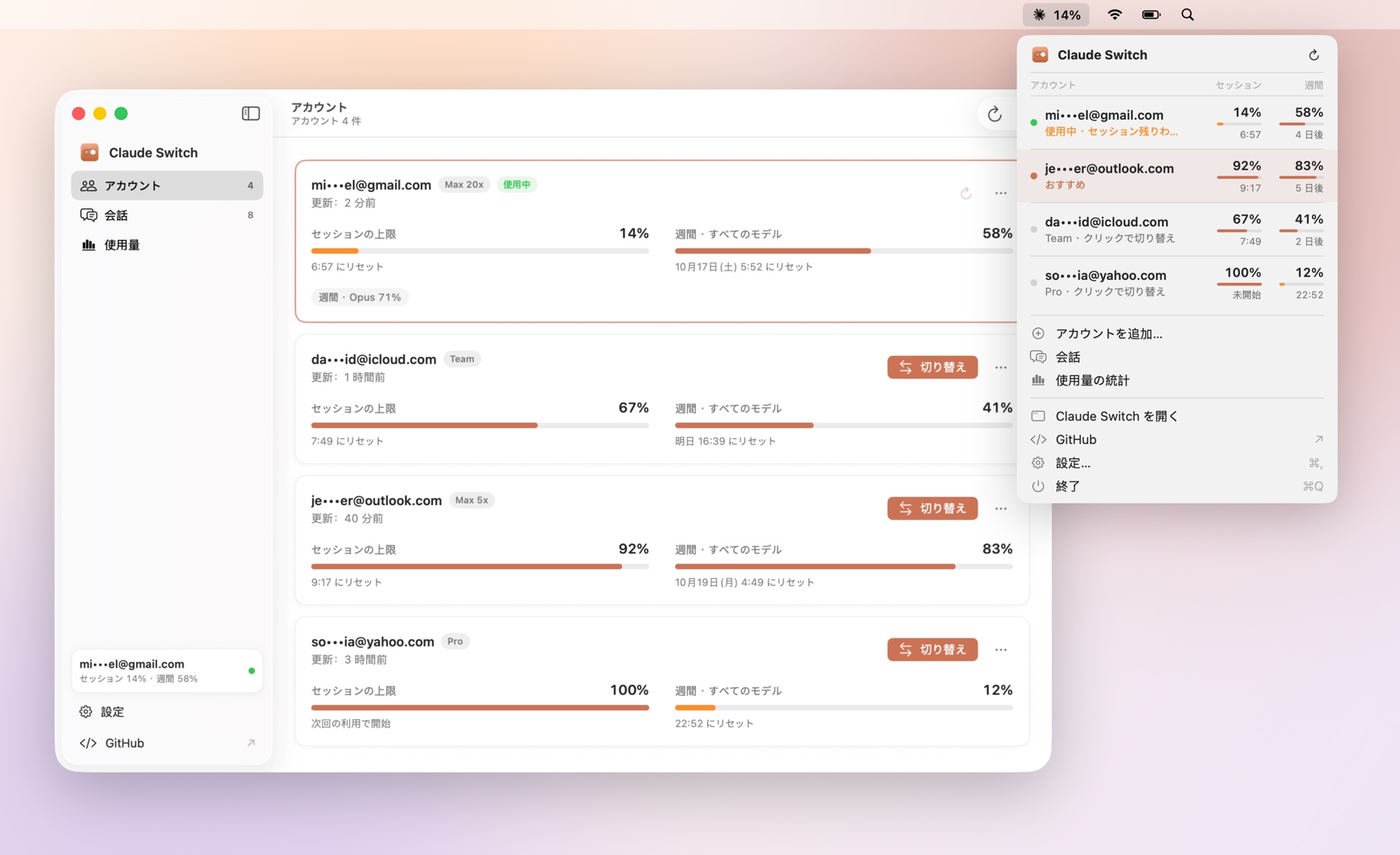
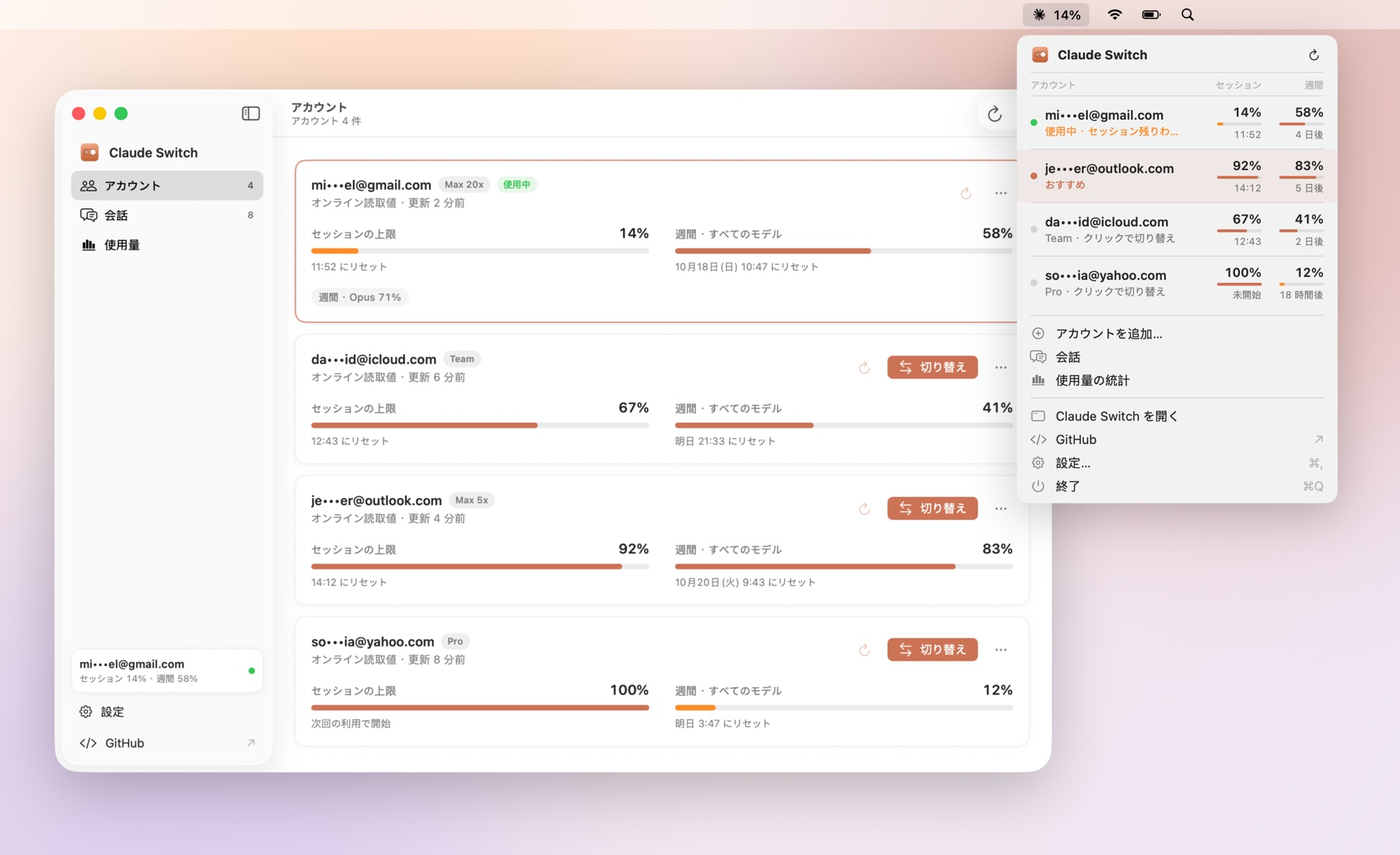
docs: simplify quota overview and refresh screenshots

diff --git a/docs/usage-data.md b/docs/usage-data.md
@@ -11,15 +11,9 @@ They are measured in different units and cannot be converted into each other.
 
 ### Where readings come from
 
-By default nothing is sent over the network. Readings come from files Claude Desktop already keeps:
+Quota percentages and reset times come only from successful online usage responses. Switch does not read Desktop's quota-history file, transcript rate-limit hints or cached `messageLimits`, and never estimates reset times from local history.
 
-- **Percentages** come from `plan-usage-history.json` in Claude Desktop's folder. Each sample belongs to an account and organization; Claude Switch keeps the newest sample for every account it can match unambiguously. If several local accounts share one organization and cannot be told apart, the reading stays unknown instead of being guessed.
-- **Reset times** are not stored in that file. Claude Switch uses, in order:
-  1. rate-limit replies (`quotaLimits` with status `rejected` or `allowed_warning`) recorded in Claude Code transcripts under `~/.claude/projects`, but only for sessions that belong to a single Desktop account. Files changed in the last 8 days are read incrementally, at most 16 MB per pass;
-  2. the `messageLimits` of the signed-in account in Claude's local `claude.ai` cache. The cache is parsed field by field, and parsing stops at anything unrecognized.
-- When neither source has a reset time, it is **estimated** from the sample history. Usage within one window never goes down, so the window started no later than the earliest sample of the current run, and it resets no later than that sample plus the window length. Such times are shown as "resets by …" and marked as estimates. With sparse samples the estimate can be early.
-
-A known reset time always wins over an estimate. A reset time is discarded once it has passed or once a newer sample shows that usage dropped, which means the window reset early.
+Switch retains its own last successful online response for offline display. Reading that cache, checking files or failing a request never advances the measurement time. On library load, legacy local and estimated windows are removed; individually attributed online windows retain their original timestamps. A locally sourced reset is removed even when its percentage came from the server.
 
 ### What is shown
 
@@ -27,35 +21,73 @@ Every account always shows a session and a weekly row, even when one is unknown.
 
 - Unknown values are shown as `—` with an empty track. `0%` is only shown when a window is truly used up.
 - Remaining quota is `100 − utilization`. Quota is never decreased over time by guesswork.
-- When a reset time passes, the window is treated as reset: 100% left. Weekly windows roll over to their next reset. A session only starts with the next message, so it shows "Starts on next use" until it is read again.
+- When a reset time passes, the row shows **Awaiting confirmation** and an unknown percentage. The original measurement and reset timestamp remain intact; no 100% value or future weekly reset is invented. A fresh server reading of zero usage with no session reset can show "Starts on next use".
+- Every window keeps its own source and observation time. Display freshness follows the refresh interval plus a one-minute allowance, with a ten-minute minimum. Switch suggestions still require measurements no older than ten minutes, without estimates or pending resets. A failed query preserves the previous measurement and its timestamp.
 
 ### Suggested account
 
 When the signed-in account's session limit drops to 20% or less (or its weekly limit to 10% or less) and will not reset within the next half hour (an hour for the weekly limit), the menu bar highlights the saved account with the most session quota left, provided it has clearly more left and at least 20% of its weekly limit. Without a shortage, it may instead point to an account whose unused quota is about to reset. The suggestion is only a hint; nothing switches on its own.
-- Accounts that are not signed in keep their last reading together with the time it was taken. Usage on other devices is not visible to Claude Switch.
+- Online readings include the account’s server totals, including other devices. Saved accounts retain their last successful reading when their credentials expire.
 
 ### Refreshing online
 
-The refresh button on the **signed-in** account's card asks Anthropic for its current quota. It also runs once after you switch accounts, after a new account is saved, and when Claude Desktop changes accounts by itself. The menu bar refresh, `⌘R` and the background check every 60 seconds only re-read local files.
+The refresh button on **each saved account’s card** reads that account's quota. The current account always comes from Desktop's published credentials, with no fallback to its saved snapshot. Existing manual reads of other saved logins remain available. After a successful or observed account switch the incoming account is prioritized, then the outgoing saved login is read once. A newly saved login is also read once; eligible saved accounts also use the periodic schedule below.
+
+The current account additionally gets a bounded read on:
+
+- startup, wake, session unlock, or network restoration, when its reading is due under the refresh policy, missing, or awaiting recovery;
+- publication of changed credentials for the same account; a changed encrypted cache only causes a request if the selected access token actually changed;
+- an observed reset boundary, once per boundary.
+
+A debounced file observer notices config publication and atomic file replacement. The existing 60-second local scan is a fallback. The menu bar refresh and `⌘R` read the current account online after checking local identity. The account-card refresh reads that card’s account online. Automatic reads never show a Keychain prompt.
+
+### Automatic schedule and settings
+
+Settings can disable automatic quota reads, disable activity adjustment, and set the current-account default interval (5–60 minutes), other-account interval (15–120 minutes), minimum interval (1–5 minutes) and quiet interval (at least the current-account default, up to 120 minutes). Defaults are 15, 30, 1 and 30 minutes respectively. Manual refresh remains available when automatic refresh is disabled.
+
+While Claude is running, a 60-second heartbeat checks metadata of task records belonging to the current account and organization. Code uses uniquely attributed transcript files and their subagent records. Cowork uses account-scoped `audit.jsonl` and nested transcript files, including `agent/` sessions. Only modification times and sizes are read for this purpose; no message bodies, focus/keyboard activity, CPU load or quota deltas are used. Titles, index-file changes and output artifacts do not count.
+
+Each minute contributes at most one changed observation, regardless of the number of sessions. With default settings:
+
+| Changed observations in the last five minutes | Current-account interval |
+| --- | --- |
+| 4–5 | 1 minute |
+| 2–3 | 2 minutes |
+| 1 | 5 minutes |
+| 0 | 15 minutes |
+| 30 continuous minutes of complete observations without changes | 30 minutes |
+
+The intermediate intervals are two and five times the configured minimum, capped at the default interval. Other accounts use their own configured interval, 30 minutes by default, independently of current-account activity. Missing, ambiguous, stale or incomplete activity observations fall back to the default; they never establish inactivity. Account changes clear the selected account’s observation window. Recently modified records seed the initial observation; discovering an old record does not count as new activity. This measures record-change frequency, not exact execution state or token consumption. A long task that produces no record changes can therefore slow down the polling rate.
+
+All automatic reads share one serial queue with at least 15 seconds between attempts. The current account is prioritized without starving overdue saved accounts. The client separately enforces at least 60 seconds per account/organization. Manual success satisfies pending reads for that account. Each next periodic read is anchored to the last successful measurement or attempt, not postponed by every heartbeat. The scheduler does not replay missed polling rounds after sleep.
+
+Claude exit, system sleep or loss of connectivity pauses automatic queries and cancels an automatic read in flight. Claude is never launched just to fetch quota. Expired or rejected credentials suspend that account’s periodic work until updated credentials or a manual recovery; no refresh token is used. Token changes cannot shorten a server cooldown. Background reads never request Keychain authorization.
 
 An online refresh:
 
-- sends the same read-only `GET https://api.anthropic.com/api/oauth/usage` that Claude Code's `/usage` command sends. When the token changes, it first calls `GET /api/oauth/profile` and verifies that the account and organization match the one Claude Desktop is signed in to;
-- requires a Claude Code installation (the one bundled with Claude Desktop is enough), whose version is sent in the `User-Agent`. Without it, no request is made;
-- uses the access token Claude Desktop already holds. It decrypts Claude's token cache with the key in the **Claude Safe Storage** Keychain item. Refresh tokens are never used and no token is ever renewed, so Claude's own login is never disturbed;
-- never reads or sends anything for accounts that are not signed in, never uses web cookies, and never sends prompts.
+- uses only `GET https://api.anthropic.com/api/oauth/profile` and `GET /api/oauth/usage?skip_spend=1`; manual and automatic quota reads skip spending statistics, which the quota display does not use;
+- verifies the account and organization before usage. This validation is cached only in memory for the same account, organization and actual access token, for at most ten minutes and 32 entries;
+- reads the encrypted cache with **Claude Safe Storage**. It matches the supported client ID, exact audience, required and allowed scopes, account binding and a single organization. Conflicting equally suitable credentials stop the read; the latest expiry does not decide ownership;
+- checks the server-provided `expiresAt` rather than assuming an eight-hour token lifetime. Expired and soon-expiring tokens wait for Claude; malformed metadata, missing scope, Keychain errors and authorization failures have separate messages;
+- never uses refresh grants, web cookies or inference requests. Claude Desktop remains responsible for renewing its login. No saved login is restored merely to read quota.
 
-**Keychain prompt.** "Claude Safe Storage" belongs to Claude, so macOS asks once whether Claude Switch may read it. The prompt only appears when you press refresh yourself; automatic refreshes stay silent and skip the request instead. Choose **Always Allow** to avoid being asked again. Builds that are not signed with a stable identity are a new app to macOS after every update, so the question may come back.
+**Request compatibility.** The builder follows the observed OAuth endpoint and bearer/beta-header contract, using the installed Claude Code version for the existing Code compatibility user agent. A missing Code installation stops the request. This is a Swift `URLSession` client, not Electron `net.fetch`: matching HTTP fields does not reproduce Desktop's transport, cookie context or TLS fingerprint. It is not an official public API or a guarantee against account enforcement. Desktop 2.37337.1 also has a separate cookie-based organization-usage path; Switch does not adopt that path or copy cookies into requests.
 
-**Back-off**, per login, persisted across restarts:
+**Credential recovery.** A `401` blocks that exact access token, not the account or the encrypted cache. A changed cache with the same denied token cannot bypass this block. The first two minutes after a switch allow short local readiness checks; the observer and fallback scans continue after that deadline. If Claude publishes a replacement token several minutes later, Switch resumes with the new token, subject to the account's remaining cooldown. If Claude cannot renew it, the user must complete login in Claude. A missing local cookie does not prove that a saved login was revoked. Legacy invalid-login flags inferred only from cookie absence are cleared on library load; this permits revalidation without declaring the saved login valid.
 
-- at least 60 seconds between two requests;
-- `429` or `403`: wait for `Retry-After`, or 5 minutes, at most 1 hour;
-- `401`: no further requests until the credentials change.
+A saved access token that has expired retains its last reading and asks the user to switch to the account so Claude can update the login. Non-current accounts are not actively renewed. Cancellation of a switch does not enqueue a switch refresh; an in-flight quota read is canceled when a file operation starts, and changed credentials discard the response.
 
-Requests use an ephemeral session without cookies or cache, refuse redirects, time out quickly and accept at most 1 MB. If anything is off (an unexpected format, an identity mismatch, missing permissions), the previous reading is kept and the problem is shown on the account's card until it is dismissed, the next read succeeds or another account is signed in. Pressing refresh during the back-off shows a countdown that disappears when the wait is over. Error messages never include the response body or the `Authorization` header.
+**Keychain access.** Only a manual refresh may request macOS authorization. Automatic reads stay silent and show recovery guidance when access is unavailable. Ad-hoc builds can be considered a new app after an update, so permission may be requested again.
 
-These endpoints are not a documented public API and may change.
+**Retry state** is persisted in Switch's own private directory, using an exclusive lock to serialize reservations across app instances:
+
+- one lookup cycle per account and organization per 60 seconds; an uncached cycle may contain one profile GET and one usage GET;
+- `429`: honor the complete `Retry-After` duration or HTTP date, with a five-minute fallback. A new token or app restart cannot shorten it;
+- `401`: wait for a different actual access token; `403` is an authorization/scope failure, not a rate-limit response, and also stops automatic reuse of that token;
+- temporary network and server failures: exponential delay from one minute to one hour, respecting longer server delays. Automatic retry bursts are bounded by readiness checks; later recovery is event-driven;
+- cancellation is not an account error. No response body or authorization header is put in an error message.
+
+Requests use an ephemeral session without cookies or cache, refuse redirects, have short timeouts and accept at most 1 MB of successful response data (16 KB for error classification). A failed read preserves the last measurement. A visible cooldown is not a successful reading. Unknown response fields remain unknown; `limits[]` is accepted only for the known `weekly_scoped` kind, with bounded model labels and stable model IDs when supplied.
 
 ## Usage statistics
 

diff --git a/docs/claude-internals.md b/docs/claude-internals.md
@@ -35,7 +35,7 @@ Any other `oauth:` key in `config.json` means the format changed; saving and swi
 
 ### Signed-in check
 
-`Cookies` is an SQLite database. A non-expired `sessionKey` cookie for host `.claude.ai` in table `cookies(host_key, name, expires_utc)` means Claude is signed in. [`LoginProbe`]
+`Cookies` is an SQLite database. Read a stable private copy together with committed WAL frames; never open the live database as immutable. A non-expired `sessionKey` cookie for host `.claude.ai` in table `cookies(host_key, name, expires_utc)` means Claude is signed in. [`LoginProbe`]
 
 ### Token cache encryption
 
@@ -45,20 +45,20 @@ Any other `oauth:` key in `config.json` means the format changed; saving and swi
 - key: PBKDF2-HMAC-SHA1, salt `saltysalt`, 1003 iterations, 16 bytes
 - cipher: AES-128-CBC, IV of 16 spaces (`0x20`), PKCS#7 padding
 
-The plaintext is a JSON object. Keys look like `<client>:<org>:https://api.anthropic.com:<scopes>`, or `acct:<account>|<client>:<org>:https://api.anthropic.com:<scopes>` when bound to an account. Values hold `token` and `expiresAt` (and a refresh token, which Claude Switch never reads or uses). Only entries with both `user:profile` and `user:inference` scopes can read usage. [`DesktopTokenReader`]
+The plaintext is a JSON object. Keys look like `<client>:<org>:https://api.anthropic.com:<scopes>`, or `acct:<account>|<client>:<org>:https://api.anthropic.com:<scopes>` when bound to an account. Values hold `token` and `expiresAt` (and a refresh token, which Claude Switch never selects or uses). Only entries with both `user:profile` and `user:inference` scopes can read usage. [`DesktopTokenReader`]
 
 ## Accounts, emails and plans
 
 - Desktop stores no account name or avatar locally; the UUID is the identity.
 - `~/.claude.json` → `oauthAccount.accountUuid`, `emailAddress`, `organizationUuid` (the Claude Code login, which may differ from Desktop's: another account, or another organization of the same account, so its organization only fills a gap). Only `oauthAccount` is decoded; the file also holds project history. [`LocalReader`]
-- `IndexedDB/https_claude.ai_0.indexeddb.blob/…`: claude.ai's persisted query cache. Values are V8-serialized and usually Snappy-compressed (`FF 11 02` header). From it Claude Switch reads `account { uuid, email_address }`, each organization's `rate_limit_tier` and `capabilities`, and `current_account.messageLimits[<org>]`. Values are paired only with the `uuid` of the object that holds them, and parsing stops at unknown tags. [`DesktopProfile`]
+- `IndexedDB/https_claude.ai_0.indexeddb.blob/…`: claude.ai's persisted query cache. Values are V8-serialized and usually Snappy-compressed (`FF 11 02` header). From it Claude Switch reads `account { uuid, email_address }`, each organization's `rate_limit_tier` and `capabilities`. Values are paired only with the `uuid` of the object that holds them, and parsing stops at unknown tags. [`DesktopProfile`]
 - Plan names come from `rate_limit_tier` (words `max` with an optional `5x`/`20x`, `pro`, `team`, `enterprise`), falling back to capabilities `claude_max` / `claude_pro`.
 
 ## Quota
 
-- `plan-usage-history.json` → `samples[]` with `t` (time), `org`, `u.fh` (session limit used, %) and `u.sd` (weekly limit used, %). No reset times. Samples from earlier logins can remain, so each sample must be matched to its organization. [`LocalReader.localUsage`]
-- `messageLimits[<org>]` (above) includes reset times only while a limit is near or hit: `resetsAt` for `representativeClaim`, plus `windows["5h" | "7d"].resets_at`.
-- Window identifiers and lengths: `five_hour` (5 hours, starts with the first message), `seven_day` (7 days), plus model-specific weekly windows such as `seven_day_opus` and `seven_day_sonnet`. [`ResetInference.lengths`]
+Quota percentages and reset times are read only from the online endpoints below. Desktop's `plan-usage-history.json`, cached `messageLimits` and transcript quota hints are not used for quota. Existing local/estimated measurements are filtered from Switch's library on load. Window identifiers include `five_hour` and `seven_day`, plus model-specific weekly windows.
+
+Activity scheduling reads only modification times and sizes of Code transcripts/subagent records and Cowork audit/transcript records. Cowork stores sessions under the account/organization directory, optionally under `agent/`; some Desktop versions shorten UUID directory names to eight characters. Shortened account/organization roots are used only when unambiguous among known identities. Missing or unsupported layouts remain unknown. This is scheduling evidence only; it never supplies quota or reset times.
 
 ## Claude Code sessions in Desktop
 
@@ -73,20 +73,20 @@ The plaintext is a JSON object. Keys look like `<client>:<org>:https://api.anthr
 
 - rows have `type` (`user`, `assistant`, …), `timestamp`, `sessionId`, `isSidechain`, `requestId`, `message.id`, `message.model`, and `message.usage` with `input_tokens`, `output_tokens`, `cache_read_input_tokens`, `cache_creation_input_tokens`;
 - `<project>/<…>/subagents/agent-*.jsonl` hold subagent rows; files containing `.superseded-` are obsolete; the model `<synthetic>` is not real usage;
-- a reply that hit or neared a limit carries `quotaLimits { status: "rejected" | "allowed_warning", rateLimitType, resetsAt }`. Transcripts have no account UUID. [`TokenScanner`, `LimitLogScanner`]
+- a reply that hit or neared a limit carries `quotaLimits { status: "rejected" | "allowed_warning", rateLimitType, resetsAt }`. Transcripts have no account UUID. [`TokenScanner`; quota hints are ignored]
 
 Installed Claude Code versions live in `claude-code/<version>/` (bundled with Desktop) or `~/.local/share/claude/versions/<version>/`.
 
 ## Online endpoints
 
-Used only for the signed-in account, only on the triggers in [usage-data.md](usage-data.md), with the token Desktop already holds:
+Used on the event triggers and configurable, staggered periodic schedule in [usage-data.md](usage-data.md). Automatic queries pause when Claude is closed. The access token comes from Desktop or the selected encrypted vault snapshot; it is never renewed:
 
 | Request | Fields read |
 | --- | --- |
 | `GET https://api.anthropic.com/api/oauth/profile` | `account.uuid`, `account.email_address`, `account.has_claude_max`, `account.has_claude_pro`, `organization.uuid`, `organization.rate_limit_tier` |
-| `GET https://api.anthropic.com/api/oauth/usage` | `five_hour`, `seven_day`, `seven_day_sonnet`, `seven_day_opus` → `utilization`, `resets_at`; `limits[]` → `scope.model.display_name`, `percent` or `utilization`, `resets_at` |
+| `GET https://api.anthropic.com/api/oauth/usage?skip_spend=1` | `five_hour`, `seven_day`, `seven_day_sonnet`, `seven_day_opus`, `seven_day_oauth_apps`, `seven_day_cowork` → `utilization`, `resets_at`; `limits[]` with `kind == weekly_scoped` → optional `scope.model.id`, `scope.model.display_name`, `percent` or `utilization`, `resets_at` |
 
-Headers match Claude Code's `/usage`: `Authorization: Bearer <token>`, `anthropic-beta: oauth-2025-04-20`, `User-Agent: claude-code/<installed version>`. Back-off rules are in [usage-data.md](usage-data.md). [`ActiveUsageClient`]
+The OAuth compatibility builder uses: `Authorization: Bearer <token>`, `anthropic-beta: oauth-2025-04-20`, `User-Agent: claude-code/<installed version>`. These fields do not establish transport equivalence with Electron. Desktop 2.37337.1 has both an OAuth usage path and a separate cookie-based organization-usage path. Switch uses only the OAuth compatibility path. Back-off and credential selection rules are in [usage-data.md](usage-data.md). [`ActiveUsageClient`]
 
 ## Process behavior
 

diff --git a/README.md b/README.md
@@ -29,17 +29,18 @@ Save each login once, switch between them in a second, and see every account's s
 
 Claude Desktop signs in to one account at a time. If you use a personal and a work account, or several plans for different projects, changing accounts means signing out, signing in again and losing track of how much quota each one has left.
 
-Claude Switch keeps every login you use on your Mac, encrypted, and swaps them for you. It is a native menu bar app: no Electron, no background service, no third-party dependencies.
+Claude Switch keeps every login you use on your Mac, encrypted, and swaps them for you. It is a native macOS menu bar app with no third-party dependencies.
 
 ## Features
 
 - **One-click switching.** Pick an account in the menu bar. Claude quits normally, the saved login is put back in place, and Claude reopens already signed in.
-- **Limits at a glance.** Every account shows how much of its **session limit** and **weekly limit** is left and when each one resets, plus model-specific weekly limits when your plan has them.
+- **Limits at a glance.** Read session, weekly and model-specific limits and reset times directly from Claude online.
+- **Automatic refresh.** The current account follows conversation activity; other accounts refresh every 30 minutes by default. Adjust intervals in Settings. Refresh pauses when Claude closes.
 - **Smart suggestion.** When the current account is running low, the menu bar points to a saved account that still has room.
 - **Add accounts without signing out.** "Add account" moves the current login aside so Claude opens at its sign-in screen. The previous account stays signed in on the server and keeps working.
 - **Bring your Claude Code sessions along.** Move or copy local Claude Code sessions to another account, or let chosen sessions follow you whenever you switch.
 - **Usage statistics.** Tokens, models, an activity heatmap, streaks and daily charts, counted the same way as Claude Desktop's own statistics.
-- **Safe by design.** Encrypted snapshots, a strict allow-list of files, a journal that can roll back any interrupted switch, and no network traffic unless you ask for it. See [How it works](docs/how-it-works.md).
+- **Safe by design.** Encrypted snapshots, a strict allow-list of files, a journal that can roll back any interrupted switch, with network access limited to documented quota reads and configurable automatic refreshes. See [How it works](docs/how-it-works.md).
 - **Feels at home on macOS.** SwiftUI, light and dark mode, keyboard shortcuts, and 10 languages.
 
 ## Screenshots
@@ -96,15 +97,15 @@ Claude Switch **doesn't have remote or automatic updates yet**. To hear about ne
 > [!IMPORTANT]
 > To change accounts, use Claude Switch rather than Claude's **Log out** or Claude Code's `/login`.
 > Signing out revokes that login on Anthropic's side, and the copy Claude Switch saved stops working.
-> If that happens, the account is marked **Expired**; sign in to it once more and it is saved again.
+> If Claude cannot restore the login, sign in once more and it is saved again.
 
-Handy shortcuts in the main window: `⌘1` `⌘2` `⌘3` switch pages, `⌘K` searches accounts and sessions, `⌘R` re-reads local data.
+Handy shortcuts in the main window: `⌘1` `⌘2` `⌘3` switch pages, `⌘K` searches accounts and sessions, `⌘R` refreshes the current account’s quota online.
 
 ## Privacy and security
 
 - **Everything stays on your Mac.** Saved logins are encrypted with AES-256-GCM. The key lives in your login Keychain and is never synced to iCloud, so a copy of the saved logins alone can't be read.
 - **No telemetry, no analytics, no servers of our own.**
-- **Network access only when you ask.** Refreshing the signed-in account's limits sends the same read-only request Claude Code's `/usage` command sends, directly to Anthropic. Other accounts are never contacted. Reading the local records needs no network at all.
+- **Limited network access.** Only account and quota queries go to Anthropic. Automatic refresh can be disabled; local conversations are never uploaded.
 - **A narrow footprint.** Only Claude Desktop's login files are swapped. Claude Code's own login, your projects, MCP servers, skills and settings are left alone.
 - **Recoverable.** Every switch is journaled; if something interrupts it, Claude Switch can restore the previous state.
 
@@ -115,7 +116,7 @@ Details: [How it works](docs/how-it-works.md) · [Quota and usage data](docs/usa
 <details>
 <summary><b>Why does macOS ask to let Claude Switch use "Claude Safe Storage"?</b></summary>
 
-Claude encrypts its login tokens with a key stored in that Keychain item. Claude Switch only needs it to read the signed-in account's current limits online, and only asks when you press refresh yourself. Choose **Always Allow** to avoid repeated prompts. Everything else works without it.
+Claude encrypts its login tokens with a key stored in that Keychain item. Claude Switch only needs it to read the selected account's current limits online, and only asks when you press refresh yourself. Choose **Always Allow** to avoid repeated prompts. Everything else works without it.
 </details>
 
 <details>
@@ -127,7 +128,7 @@ No. Claude Switch switches Claude Desktop. The Claude Code command-line tool kee
 <details>
 <summary><b>Why do some accounts show "—" or an older reading?</b></summary>
 
-Limits come from records Claude Desktop keeps on your Mac. An account you have not used recently has no fresh reading, and usage from other devices is not visible locally. Each reading shows when it was taken.
+A failed refresh keeps the last successful reading and its timestamp; “—” means no reading is available yet. If the saved access token has expired, switch to that account and let Claude update its login.
 </details>
 
 <details>

diff --git a/docs/architecture.md b/docs/architecture.md
@@ -43,10 +43,10 @@ Saving the signed-in login is not gated: it only reads Claude's files and writes
 ## Data flow
 
 1. `AppState.start()` loads `library.json`, starts the usage scan in the background and runs `refresh()`.
-2. `refresh()` scans Claude's local files through `LocalReader`, merges new quota samples, rolls quota windows past their reset times and saves the signed-in login if it changed. It runs every 60 seconds. While Claude shows its sign-in screen, or right after a switch, only the signed-in account, its credentials and the session cookie are checked every three seconds, and a change triggers `refresh()`. Usage statistics are rescanned every minute while the Usage page is on screen, otherwise every ten minutes.
+2. `refresh()` scans Claude's local files through `LocalReader`, marks elapsed reset times as awaiting confirmation and saves the signed-in login if it changed. A 60-second heartbeat checks whether Claude is running; local rescans and task-record metadata sampling pause when it is closed. While Claude shows its sign-in screen, or right after a switch, only the signed-in account, its credentials and the session cookie are checked every three seconds, and a change triggers `refresh()`. Usage statistics are rescanned every minute while the Usage page is on screen, otherwise every ten minutes.
    `AppState` is `@Observable`, so a view redraws only for what it reads: a statistics scan does not redraw the menu bar.
 3. User actions call `SwitchEngine.prepare(...)`, which returns an `OperationPlan`. The confirmation sheet shows the plan; `execute(...)` re-validates it and runs it as a `FileTransaction`.
-4. Online quota reads go through `ActiveUsageClient` only on the triggers described in [usage-data.md](usage-data.md).
+4. Online quota reads go through `ActiveUsageClient` only on the triggers described in [usage-data.md](usage-data.md). Manual reads target the selected account. `QuotaRefreshSchedule` determines due accounts from online timestamps and recent task-record changes. `SessionActivityReader` reads metadata only, bounded to current-account records. `QuotaRefreshQueue` serializes and staggers automatic reads for both sides of a successful or observed switch, coalesces duplicate discovery notifications and defers individual accounts during cooldowns without blocking the other account. The queue pauses during file operations, local scans, manual reads, sleep, offline periods and while Claude is closed. Settings control automatic polling and its intervals. The active login comes from Desktop, other saved logins from `CredentialVault`; automatic reads never request a Keychain prompt. Both use the same token parser, verify the profile identity and revalidate credentials before accepting a reading. Account/organization cooldowns and actual-token denials use separate persisted keys. A file observer detects same-account credential publication with a 60-second scan fallback; stale/recovery reads can also be triggered by startup, wake or network restoration. Profile validation has a ten-minute in-memory cache scoped to the account, organization and token.
 
 ## Localization
 
@@ -79,3 +79,19 @@ swift run switch-inspect --tokens   # also scan the last 30 days of token usage
 ## Platform
 
 Only macOS is supported. The core rules and data contracts in `SwitchCore` are platform-neutral, but storage access, credential protection and process control are macOS-specific, and saved logins are bound to the Mac they were created on.
+
+## P1–P3 quota recovery implementation
+
+| Priority | Changes | Fixture coverage |
+| --- | --- | --- |
+| P1 | Same-account token renewal, late publication recovery, current account priority | `QuotaRefreshQueueTests`, `UsageClientTests` |
+| P1 | Stable cookie database plus WAL copy; local absence does not imply revocation | `LoginProbeTests` |
+| P1 | Exact client/audience/scopes/account matching; separate storage, token and rate-budget keys | `DesktopTokenTests`, `UsageClientTests` |
+| P1 | Full persisted Retry-After, limited compatibility request builder | `UsageClientTests` |
+| P2 | Immutable measurements, pending resets, per-window provenance, stale suggestions excluded | `QuotaResetTests` |
+| P2 | Typed credential/HTTP/transport errors, bounded retries and cancellation | `DesktopTokenTests`, `UsageClientTests` |
+| P2 | Published config consistency; identity-changing or torn journals wait for publication | `ConfigJournalTests` |
+| P3 | Debounced filesystem observer, wake/network triggers and local polling fallback | Observer wiring; queue/client fixtures; live OS events require manual acceptance |
+| P3 | Bounded profile cache, visible recovery state and strict window parsing | `UsageClientTests`, `UsageResponseParserTests`, demo screenshot renderer |
+
+Real-account refresh, real Keychain approval, actual Desktop renewal and operating-system wake/network events are not simulated as live acceptance by the fixture suite. No credential refresh endpoint is implemented. Protocol compatibility is documented in [usage-data.md](usage-data.md).

diff --git a/CHANGELOG.md b/CHANGELOG.md
@@ -6,7 +6,20 @@ and the project follows [Semantic Versioning](https://semver.org/spec/v2.0.0.htm
 
 ## [Unreleased]
 
+### Added
+
+- Configurable automatic quota refresh: the current account follows conversation activity, other accounts default to 30 minutes, and queries are staggered. Automatic refresh pauses when Claude closes.
+
+- Manual quota refresh for each saved account without switching Claude Desktop.
+
 ### Changed
+
+- Quota and reset times now come exclusively from online responses. Legacy local estimates are removed; failed reads keep the last successful online measurement. Menu refresh and Command-R now refresh current-account quota online.
+
+- Current-account quota follows credential publication, including late renewal after switching. Incoming accounts have priority; startup, wake and network recovery can refresh stale readings.
+- Quota windows retain their own source and timestamp. Elapsed reset times show pending confirmation instead of fabricated full quota, and stale readings no longer drive switch suggestions.
+
+- Switching accounts automatically refreshes both the outgoing and incoming accounts once. Queued reads survive concurrent work and per-login cooldowns, duplicate discovery notifications are coalesced, and a failure on one account does not stop the other. Automatic reads never show a Keychain prompt.
 
 - Claude Code running in a terminal or an editor no longer blocks switching. Only Claude Desktop's helpers and the Claude Code sessions it started are waited for.
 - Old recovery copies are cleaned up: the two newest switches of each account and a week of other finished operations are kept. Unfinished operations are always kept.
@@ -14,7 +27,13 @@ and the project follows [Semantic Versioning](https://semver.org/spec/v2.0.0.htm
 
 ### Fixed
 
-- The "Quota was just read" notice no longer stays on an account card forever: it counts down and disappears when the wait is over. Quota notices can be dismissed, and they are cleared when another account is signed in.
+- Token rejection, account/organization cooldowns and encrypted-cache changes use separate identities. Server retry delays survive token renewal and restarts without a one-hour cap.
+- Login detection includes committed SQLite WAL data through private copies; missing cookies no longer mark saved logins permanently expired, and old cookie-based invalid flags are cleared. Pending credential journals wait for publication.
+- Credential expiry, scope, Keychain, authorization, network and server failures have distinct recovery states. Profile validation is cached briefly; quota windows are parsed by their supported kind.
+
+- Online quota cooldowns and rejected credentials stay tracked separately for every login, including across app restarts and refreshes of other accounts.
+
+- The "Quota was just read" notice no longer stays on an account card forever: it counts down and disappears when the wait is over. Quota notices can be dismissed, and they are cleared when that account is refreshed successfully.
 - Saved accounts can be switched to again after Claude Desktop updates itself. Only a login saved by a newer Claude than the one installed is refused.
 - An account that uses one organization in Claude Desktop and another in Claude Code keeps its organization, plan and quota steady, and a conversation moved to it no longer lands in an organization Claude Desktop doesn't show.
 - Saving the signed-in login tries again by itself when Claude was writing its data at that moment, and the message no longer mentions a preview.

diff --git a/docs/how-it-works.md b/docs/how-it-works.md
@@ -37,6 +37,8 @@ Every switch is planned first and executed only after you confirm it.
 7. **Roll back on failure.** If any step fails, the transaction is reversed while Claude is still closed. If a safe rollback cannot be confirmed, all data is kept and Settings shows a recovery entry; Claude is not reopened in a mixed state.
 8. **Commit and reopen.** Only after a successful commit is Claude reopened. Whether the login is still valid is decided by Claude itself: for 36 seconds after the switch, Claude Switch watches whether Claude stays signed in.
 
+After a successful switch, both the outgoing and incoming accounts are queued for an automatic quota refresh. These read-only requests do not affect the switch result; a failure on one account does not block the other, and each account keeps its own cooldown. See [usage-data.md](usage-data.md).
+
 After a commit, the recovery copies are archived in encrypted form and read back for verification before the temporary folder is removed.
 Finished operations are kept while they are useful: the two newest switches that moved each account's login out of Claude, and everything else for a week. Unfinished operations are always kept.
 
@@ -51,11 +53,11 @@ If a switch is interrupted (power loss, crash, full disk), Claude Switch shows a
 Nothing is signed out on the server, so the account you moved aside stays valid.
 
 > [!WARNING]
-> Do not change accounts with Claude's own **Log out** or Claude Code's `/login`. Both revoke the current login on the server, and the copy Claude Switch saved stops working. If that happens, the account is marked **Expired** and you only need to sign in to it once more.
+> Do not change accounts with Claude's own **Log out** or Claude Code's `/login`. Both revoke the current login on the server, and the copy Claude Switch saved stops working. If Claude cannot restore the login, sign in to it once more. Local cookie absence alone does not establish server revocation.
 
 ## Revoked logins
 
-Claude Switch reads the `sessionKey` cookie for `claude.ai` to tell whether Claude is signed in. When Claude is signed out of an account that was in use, that account is marked **Expired**, it is not shown as active, and the app asks you to sign in to it again. A revoked login can only be detected once Claude tries to use it.
+Claude Switch checks session-cookie metadata in a private, stable copy of the cookie database and its WAL. A missing cookie means the account is not currently shown as active; an unreadable or changing store remains unknown. Neither condition marks a saved login permanently expired. Switch waits for Claude to publish updated credentials and shows guidance if login needs attention. An OAuth access-token rejection blocks that token only.
 
 ## Moving and copying Claude Code sessions
 

diff --git a/AGENTS.md b/AGENTS.md
@@ -47,7 +47,7 @@ SwiftPM needs to run outside restrictive sandboxes (it uses `sandbox-exec` for t
 4. **Writes go through the gate.** Anything that changes Claude's files or processes calls `BuildAccess.requireClaudeWrites()` and runs inside a `FileTransaction` created by `SwitchEngine`, so it is journaled, re-validated and reversible. Never write Claude's files directly.
 5. **Stay inside the allow-list.** Only the identity items in `IdentitySchema` and the whitelisted session index fields may change. Widening either needs an explicit decision from a maintainer.
 6. **Fail closed.** Unknown formats, unexpected keys, ambiguous organizations or changed fingerprints stop the operation with a clear message. Never guess, never fall back to "probably fine".
-7. **Network stays minimal.** Only the documented `profile` and `usage` GETs for the signed-in account, on the documented triggers. No telemetry, no new hosts, no token refresh, nothing for signed-out accounts.
+7. **Network stays minimal.** Only the documented `profile` and `usage` GETs, on the documented triggers. After an account switch, automatically refresh both the outgoing and incoming logins once, respecting per-login back-off. A newly saved login is also refreshed once. Current-account credential publication and stale/recovery lifecycle events may enqueue a bounded read; prioritize the incoming account and preserve server cooldowns across token changes. Eligible saved logins also follow the configurable periodic schedule while Claude is running; current-account intervals follow task-record change frequency, and accounts are staggered; automatic reads must never prompt for Keychain access. No telemetry, no new hosts, no token refresh, no requests for logins known to be revoked.
 8. **No secrets in output.** Tokens, cookies and emails never reach logs, error messages, the clipboard, shell arguments or test output.
 9. **Never kill processes.** Claude is quit with a normal quit request; if it does not quit, the operation stops.
 10. **No third-party artwork in the repository.** Claude's logo appears only in the status item, in front of the percentage, loaded at runtime from the installed Claude app (`StatusIcon`). Everywhere else the app uses its own icon. Do not copy Anthropic's or anyone else's icons, logos or code into this project.

diff --git a/.github/CONTRIBUTING.md b/.github/CONTRIBUTING.md
@@ -37,7 +37,7 @@ Please test changes to switching or transfers with a separate macOS user or dedi
 
 - **Writes are gated.** Anything that changes Claude's files or processes must call `BuildAccess.requireClaudeWrites()` and go through `SwitchEngine` and `FileTransaction`, so it is journaled and can be rolled back.
 - **Stay inside the allow-list.** Do not widen the set of files described in [docs/how-it-works.md](../docs/how-it-works.md) without discussing it first.
-- **No new network calls** beyond the documented quota and profile reads, and never for accounts that are not signed in.
+- **No new network calls** beyond the documented quota and profile reads. Automatically refresh both logins involved in an account switch, and a newly saved login, once each; eligible saved logins also use the documented configurable, staggered periodic schedule while Claude is running. Current-account credential publication and stale/recovery lifecycle events may also trigger bounded reads. Automatic reads must respect account/organization back-off and never prompt for Keychain access. Never renew tokens or query logins known to be revoked.
 - **No secrets in output.** Tokens, cookies and emails must never reach logs, errors, the clipboard or shell arguments.
 - **Fail closed.** When a file format is unknown, stop and explain instead of guessing.
 - Match the surrounding style: small types, clear names, comments only where the code cannot speak for itself.

diff --git a/.github/SECURITY.md b/.github/SECURITY.md
@@ -27,7 +27,7 @@ In scope:
 
 - exposure of saved logins, tokens or cookies outside the encrypted vault,
 - writes to Claude files outside the documented allow-list,
-- network requests other than the documented, user-triggered quota and profile reads,
+- network requests other than the documented manual and automatic quota and profile reads,
 - loss of data during a switch or a session transfer that the recovery flow cannot undo.
 
 Out of scope: issues that require an attacker who already runs code as your macOS user, and changes in Claude Desktop's private storage formats (please file those as regular bugs).
